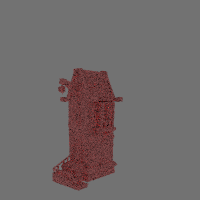
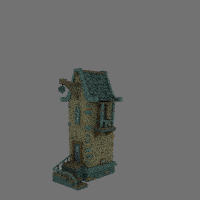
Add texture coordinates mapping from obj files for triangles

Changed region(s): [[0.24, 0.33, 0.63, 0.96]]

diff --git a/raytracer_cli/src/obj.rs b/raytracer_cli/src/obj.rs
@@ -3,11 +3,11 @@ use std::sync::Arc;
 
 use lazy_static::lazy_static;
 use maplit::hashmap;
-use raytracer::hittable::{self, Triangle};
+use raytracer::hittable::{self, TriangleBuilder};
 use std::collections::HashMap;
 
 use raytracer::material::Lambertian;
-use raytracer::texture::SolidTexture;
+use raytracer::texture::{ImageTexture, SolidTexture};
 use raytracer::{FloatTy, Pt3, Vec3};
 use tobj;
 
@@ -16,6 +16,13 @@ use crate::{PresetConfig, SceneDescription};
 lazy_static! {
     static ref RED_MAT: Arc<Lambertian<SolidTexture>> =
         Arc::new(Lambertian::from_solid_color(Vec3::new(0.9, 0.3, 0.3)));
+    static ref TEXTURE_MAT: Arc<Lambertian<ImageTexture>> = {
+        let texture = ImageTexture::open(
+            "/home/paul/Downloads/cartoon-house/textures/CoatedCartoonHouse_None_color.jpg",
+        )
+        .unwrap();
+        Arc::new(Lambertian::new(texture))
+    };
 }
 
 fn presets_for_obj(path: &str) -> HashMap<String, PresetConfig> {
@@ -72,43 +79,55 @@ pub fn load_obj(path: &str) -> Result<SceneDescription, Box<dyn Error>> {
     for model in models {
         let mesh = &model.mesh;
         let has_normals = !mesh.normals.is_empty();
+        let has_texcoords = !mesh.texcoords.is_empty();
 
         assert_eq!(mesh.indices.len() % 3, 0);
 
         for indices in mesh.indices.chunks(3) {
-            let (points, normals): (Vec<_>, Vec<_>) = indices
-                .into_iter()
-                .map(|&index| {
-                    let index = index as usize;
-                    let pos = Pt3::new(
-                        mesh.positions[index * 3] as FloatTy,
-                        mesh.positions[index * 3 + 1] as FloatTy,
-                        mesh.positions[index * 3 + 2] as FloatTy,
+            let mut points = Vec::with_capacity(3);
+            let mut normals = Vec::with_capacity(3);
+            let mut texcoords = Vec::with_capacity(3);
+
+            for index in indices {
+                let index = *index as usize;
+                let pos = Pt3::new(
+                    mesh.positions[index * 3] as FloatTy,
+                    mesh.positions[index * 3 + 1] as FloatTy,
+                    mesh.positions[index * 3 + 2] as FloatTy,
+                );
+
+                points.push(pos);
+
+                if has_normals {
+                    let normal = Vec3::new(
+                        mesh.normals[index * 3] as FloatTy,
+                        mesh.normals[index * 3 + 1] as FloatTy,
+                        mesh.normals[index * 3 + 2] as FloatTy,
                     );
+                    normals.push(normal);
+                }
 
-                    let normal = if has_normals {
-                        Some(Vec3::new(
-                            mesh.normals[index * 3] as FloatTy,
-                            mesh.normals[index * 3 + 1] as FloatTy,
-                            mesh.normals[index * 3 + 2] as FloatTy,
-                        ))
-                    } else {
-                        None
-                    };
-                    (pos, normal)
-                })
-                .unzip();
+                if has_texcoords {
+                    let coords = [
+                        mesh.texcoords[index * 2] as FloatTy,
+                        mesh.texcoords[index * 2 + 1] as FloatTy,
+                    ];
+                    texcoords.push(coords);
+                }
+            }
 
-            let normal = if has_normals {
-                let normals: Vec<_> = normals.into_iter().map(Option::unwrap).collect();
-                let count = normals.len();
-                let sum: Vec3 = normals.into_iter().sum();
-                Some(sum / (count as FloatTy))
-            } else {
-                None
-            };
+            let mut builder =
+                TriangleBuilder::new([points[0], points[1], points[2]], TEXTURE_MAT.clone());
 
-            let triangle = Triangle::new(points[0], points[1], points[2], normal, RED_MAT.clone());
+            if has_normals {
+                builder = builder.with_normals([normals[0], normals[1], normals[2]]);
+            }
+
+            if has_texcoords {
+                builder = builder.with_texcoords([texcoords[0], texcoords[1], texcoords[2]]);
+            }
+
+            let triangle = builder.build();
             objects.push(Box::new(triangle));
         }
     }

diff --git a/raytracer/src/hittable/triangle.rs b/raytracer/src/hittable/triangle.rs
@@ -6,40 +6,119 @@ use crate::material::Material;
 use crate::utils;
 use crate::{FloatTy, Pt3, Ray, Vec3};
 
-#[derive(Debug, Clone)]
-pub struct Triangle {
-    pub v0: Pt3,
-    pub v1: Pt3,
-    pub v2: Pt3,
-    pub normal: Vec3,
-    pub material: Arc<dyn Material>,
+type TexCoords = [FloatTy; 2];
+
+pub struct TriangleBuilder {
+    points: [Pt3; 3],
+    normals: Option<[Vec3; 3]>,
+    texcoords: Option<[TexCoords; 3]>,
+    material: Arc<dyn Material>,
 }
 
-impl Triangle {
-    pub fn new(
-        v0: Pt3,
-        v1: Pt3,
-        v2: Pt3,
-        normal: Option<Vec3>,
-        material: Arc<dyn Material>,
-    ) -> Self {
-        let normal = if let Some(normal) = normal {
-            normal
+impl TriangleBuilder {
+    pub fn new(points: [Pt3; 3], material: Arc<dyn Material>) -> Self {
+        TriangleBuilder {
+            points,
+            normals: None,
+            texcoords: None,
+            material,
+        }
+    }
+
+    pub fn with_normals(self, normals: [Vec3; 3]) -> Self {
+        TriangleBuilder {
+            normals: Some(normals),
+            ..self
+        }
+    }
+
+    pub fn with_texcoords(self, texcoords: [TexCoords; 3]) -> Self {
+        TriangleBuilder {
+            texcoords: Some(texcoords),
+            ..self
+        }
+    }
+
+    pub fn build(self) -> Triangle {
+        let v0 = self.points[0];
+        let v1 = self.points[1];
+        let v2 = self.points[2];
+
+        let normal = if let Some(normals) = self.normals {
+            TriangleNormal::Barycentric(
+                normals[0].normalize(),
+                normals[1].normalize(),
+                normals[2].normalize(),
+            )
         } else {
             let v0v1 = v1 - v0;
             let v0v2 = v2 - v0;
-            v0v1.cross(&v0v2)
-        }
-        .normalize();
+            TriangleNormal::Uniform(v0v1.cross(&v0v2).normalize())
+        };
+
+        let texcoords = if let Some(coords) = self.texcoords {
+            TriangleTexCoords::Barycentric(coords[0], coords[1], coords[2])
+        } else {
+            TriangleTexCoords::NoTexture
+        };
 
         Triangle {
             v0,
             v1,
             v2,
             normal,
-            material,
+            texcoords,
+            material: self.material,
         }
     }
+}
+
+#[derive(Debug, Clone)]
+pub enum TriangleNormal {
+    Uniform(Vec3),
+    Barycentric(Vec3, Vec3, Vec3),
+}
+
+impl TriangleNormal {
+    pub fn compute_normal(&self, u: FloatTy, v: FloatTy) -> Vec3 {
+        match self {
+            TriangleNormal::Uniform(n) => *n,
+            TriangleNormal::Barycentric(a, b, c) => {
+                let w = 1.0 - u - v;
+                a * w + b * u + c * v
+            }
+        }
+    }
+}
+
+#[derive(Debug, Clone)]
+pub enum TriangleTexCoords {
+    NoTexture,
+    Barycentric(TexCoords, TexCoords, TexCoords),
+}
+
+impl TriangleTexCoords {
+    pub fn compute_uv(&self, u: FloatTy, v: FloatTy) -> (FloatTy, FloatTy) {
+        match self {
+            TriangleTexCoords::NoTexture => (u, v),
+            TriangleTexCoords::Barycentric(a, b, c) => {
+                let w = 1.0 - u - v;
+                let tu = a[0] * w + b[0] * u + c[0] * v;
+                let tv = a[1] * w + b[1] * u + c[1] * v;
+                (tu, tv)
+            }
+        }
+    }
+}
+
+#[derive(Debug, Clone)]
+pub struct Triangle {
+    pub v0: Pt3,
+    pub v1: Pt3,
+    pub v2: Pt3,
+    pub normal: TriangleNormal,
+    pub texcoords: TriangleTexCoords,
+    pub material: Arc<dyn Material>,
 }
 
 impl Hittable for Triangle {
@@ -76,11 +155,14 @@ impl Hittable for Triangle {
 
         let p = ray.point_at_parameter(t);
 
+        let normal = self.normal.compute_normal(u, v);
+        let (u, v) = self.texcoords.compute_uv(u, v);
+
         Some(HitRecord::new(
             ray,
             t,
             p,
-            self.normal,
+            normal,
             u,
             v,
             self.material.clone(),
